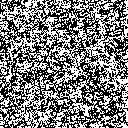
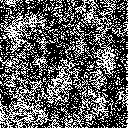
Add DDPM training and inference updates

diff --git a/inference.py b/inference.py
@@ -21,7 +21,7 @@ def main():
     ).to(device)
 
     checkpoint_path = Path(
-        "checkpoints/ddpm_epoch_1.pth"
+        "checkpoints/ddpm_epoch_3.pth"
     )
 
     if not checkpoint_path.exists():
@@ -46,11 +46,15 @@ def main():
         device=device
     )
 
-    print("Generating image...")
+    number_of_images = 1
+
+    print(
+        f"Generating {number_of_images} images..."
+    )
 
     generated_images = diffusion.sample(
         model=model,
-        number_of_images=1,
+        number_of_images=number_of_images,
         image_channels=1
     )
 
@@ -60,14 +64,32 @@ def main():
         exist_ok=True
     )
 
-    output_path = output_folder / "generated_xray.png"
+    for index, image in enumerate(
+        generated_images,
+        start=1
+    ):
+        output_path = (
+            output_folder
+            / f"generated_xray_{index}.png"
+        )
+
+        save_image(
+            image,
+            output_path
+        )
+
+        print("Saved:", output_path)
+
+    grid_path = output_folder / "generated_xray_grid.png"
 
     save_image(
         generated_images,
-        output_path
+        grid_path,
+        nrow=2
     )
 
-    print("Generated image saved at:", output_path)
+    print("Grid saved:", grid_path)
+    print("Image generation completed!")
 
 
 if __name__ == "__main__":

diff --git a/training/trainer.py b/training/trainer.py
@@ -77,7 +77,7 @@ class DDPMTrainer:
         print("Full dataset images:", len(dataset))
 
         # Quick test with only 100 images
-        test_size = min(100, len(dataset))
+        test_size = min(500, len(dataset))
         dataset = Subset(dataset, range(test_size))
 
         print("Quick test images:", len(dataset))

diff --git a/train.py b/train.py
@@ -10,7 +10,7 @@ def main():
         noise_steps=1000
     )
 
-    trainer.train(epochs=1)
+    trainer.train(epochs=3)
 
 
 if __name__ == "__main__":
